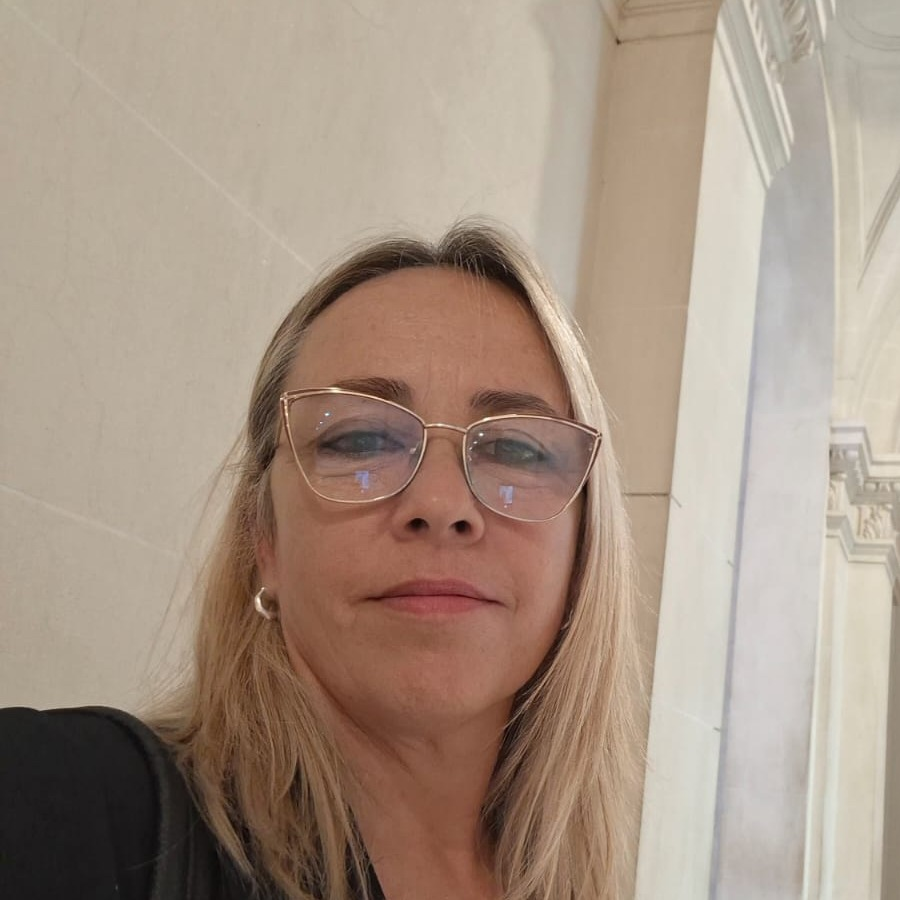
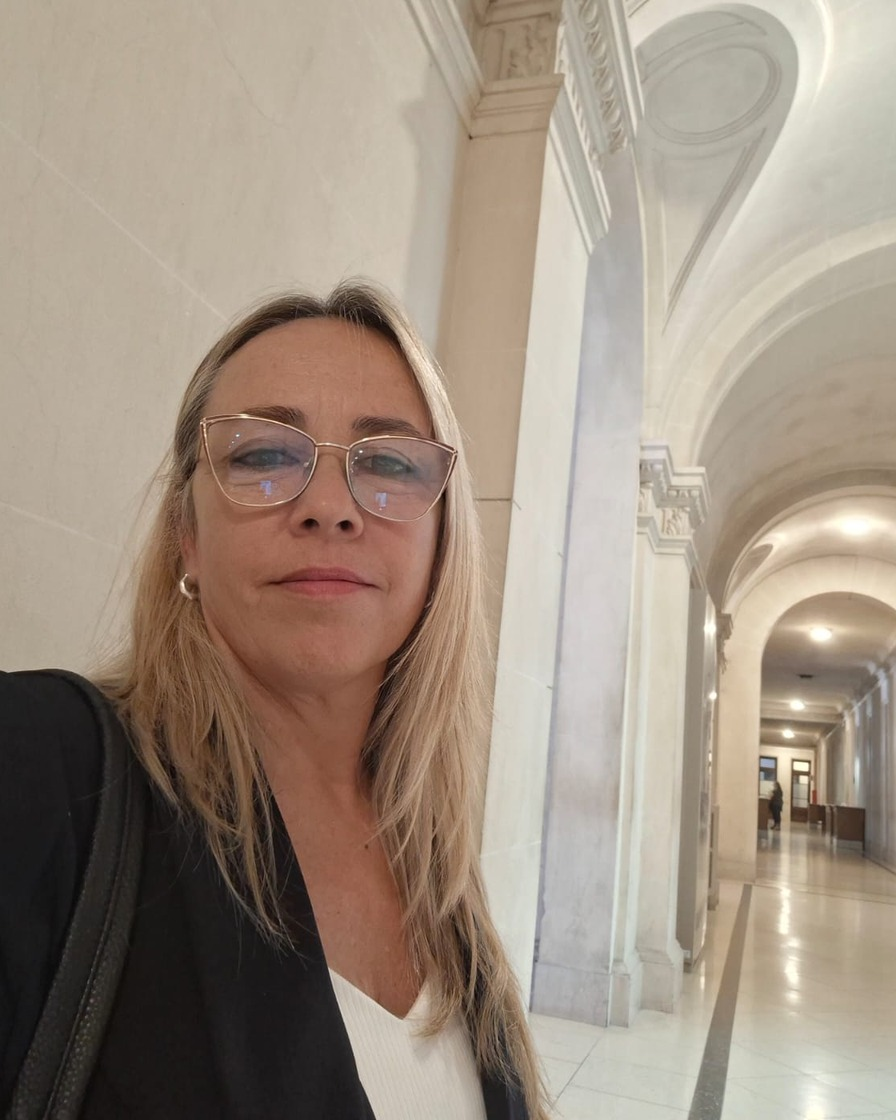
Rediseña el tratamiento de foto: rectangular con marco simple en vez del arco, foto de hero mas grande y con mas contexto

diff --git a/index.html b/index.html
@@ -187,9 +187,10 @@
     opacity:0;animation:fadeUp 1s var(--ease) forwards 1.9s;
   }
   .hero-actions{margin-top:2.8rem;display:flex;flex-wrap:wrap;gap:1rem;opacity:0;animation:fadeUp 1s var(--ease) forwards 2.05s;}
-  .hero-trust{margin-top:3.2rem;display:flex;flex-wrap:wrap;gap:2.2rem;opacity:0;animation:fadeUp 1s var(--ease) forwards 2.2s;}
-  .hero-trust div{display:flex;align-items:center;gap:.6rem;font-size:.84rem;letter-spacing:.1em;
-    text-transform:uppercase;color:var(--tinta-suave);}
+  .hero-trust{margin-top:3.2rem;display:flex;flex-wrap:wrap;gap:.9rem;opacity:0;animation:fadeUp 1s var(--ease) forwards 2.2s;}
+  .hero-trust div{display:flex;align-items:center;gap:.55rem;font-size:.78rem;letter-spacing:.06em;
+    color:var(--verde);background:var(--crema-2);border:1px solid var(--linea);border-radius:100px;
+    padding:.6rem 1.05rem;}
   .hero-trust svg{color:var(--dorado);flex-shrink:0;}
   @keyframes fadeUp{from{opacity:0;transform:translateY(24px);}to{opacity:1;transform:none;}}
 
@@ -209,30 +210,23 @@
   .btn-line:hover::before{transform:scaleX(1);}
 
   .hero-visual{position:relative;display:flex;justify-content:center;opacity:0;animation:fadeUp 1.2s var(--ease) forwards 1.4s;}
-  .medallion{position:relative;width:min(330px,72vw);aspect-ratio:1;}
-  .ring{position:absolute;border-radius:50%;pointer-events:none;}
-  .ring.r1{inset:-20px;border:1px solid var(--linea);animation:spin 26s linear infinite;}
-  .ring.r2{inset:-44px;border:1px dashed rgba(204,154,92,.45);animation:spin 46s linear infinite reverse;}
-  .ring.r3{inset:-70px;border:1px solid rgba(31,64,55,.09);}
-  @keyframes spin{to{transform:rotate(360deg);}}
-
-  .medallion img{
-    width:100%;height:100%;border-radius:50%;object-fit:cover;object-position:center 30%;
-    border:1px solid var(--dorado);box-shadow:0 26px 70px rgba(31,64,55,.28), inset 0 0 0 6px rgba(251,248,240,.4);
+  .photo-frame{position:relative;width:100%;max-width:420px;}
+  .photo-frame .accent{
+    position:absolute;top:24px;right:-24px;bottom:-24px;left:24px;
+    border:1px solid var(--dorado);border-radius:10px;z-index:1;
   }
-
-  .chip{
-    position:absolute;background:var(--crema);border:1px solid var(--linea);border-radius:100px;
-    padding:.58rem 1.15rem;font-size:.76rem;letter-spacing:.13em;text-transform:uppercase;
-    color:var(--verde);white-space:nowrap;box-shadow:0 10px 26px rgba(31,64,55,.10);
+  .photo-frame img{
+    position:relative;z-index:2;display:block;width:100%;aspect-ratio:4/5;object-fit:cover;object-position:22% 30%;
+    border-radius:10px;box-shadow:0 34px 64px rgba(31,64,55,.28);
   }
-  .chip.c1{top:4%;left:-18%;animation:float1 6s ease-in-out infinite;}
-  .chip.c2{bottom:16%;left:-24%;animation:float2 7.5s ease-in-out infinite;}
-  .chip.c3{top:24%;right:-20%;animation:float2 6.8s ease-in-out infinite .6s;}
-  .chip.c4{bottom:2%;right:-12%;animation:float1 8s ease-in-out infinite .3s;}
-  @keyframes float1{0%,100%{transform:translateY(0);}50%{transform:translateY(-13px);}}
-  @keyframes float2{0%,100%{transform:translateY(0);}50%{transform:translateY(11px);}}
-  @media(max-width:520px){.chip.c1,.chip.c2{left:-4%;}.chip.c3,.chip.c4{right:-2%;}.chip{font-size:.64rem;padding:.45rem .85rem;}}
+  .photo-frame .cred{
+    position:absolute;z-index:3;left:-1.4rem;bottom:2rem;background:var(--verde);color:var(--crema-2);
+    padding:.85rem 1.3rem;border-radius:4px;box-shadow:0 16px 36px rgba(31,64,55,.35);
+    font-size:.72rem;letter-spacing:.14em;text-transform:uppercase;white-space:nowrap;
+  }
+  .photo-frame .cred b{display:block;font-family:'Playfair Display',serif;font-style:italic;font-size:1.05rem;
+    color:var(--dorado-luz);letter-spacing:0;text-transform:none;margin-bottom:.15rem;}
+  @media(max-width:520px){.photo-frame .cred{left:.4rem;padding:.7rem 1rem;}}
 
   .scroll-cue{position:absolute;bottom:2.2rem;left:6vw;display:flex;align-items:center;gap:.8rem;
     font-size:.7rem;letter-spacing:.24em;text-transform:uppercase;color:var(--tinta-suave);z-index:4;}
@@ -287,20 +281,16 @@
   .about-grid{display:grid;grid-template-columns:1fr;gap:4rem;align-items:center;}
   @media(min-width:960px){.about-grid{grid-template-columns:.82fr 1.18fr;gap:5.5rem;}}
 
-  .about-fig{position:relative;}
+  .about-fig{position:relative;max-width:420px;}
+  .about-fig .frame-line{position:absolute;top:24px;right:24px;bottom:-24px;left:-24px;
+    border:1px solid var(--dorado);border-radius:10px;pointer-events:none;z-index:1;}
   .about-fig .plate{
-    position:relative;border-radius:220px 220px 8px 8px;overflow:hidden;aspect-ratio:3/4;
+    position:relative;z-index:2;border-radius:10px;overflow:hidden;aspect-ratio:3/4;
     box-shadow:0 30px 70px rgba(31,64,55,.2);background:var(--crema-3);
   }
   .about-fig .plate img{width:100%;height:100%;object-fit:cover;object-position:center 12%;display:block;}
-  .about-fig .plate::before{
-    content:'';position:absolute;inset:16px;border:1px solid rgba(251,248,240,.55);
-    border-radius:200px 200px 8px 8px;pointer-events:none;
-  }
-  .about-fig .frame-line{position:absolute;inset:-18px;border:1px solid var(--linea);
-    border-radius:230px 230px 10px 10px;pointer-events:none;}
   .about-badge{
-    position:absolute;right:-14px;bottom:26px;background:var(--crema);border:1px solid var(--linea);
+    position:absolute;z-index:3;right:-1.4rem;bottom:2rem;background:var(--crema);border:1px solid var(--linea);
     border-radius:6px;padding:.95rem 1.3rem;text-align:center;box-shadow:0 14px 34px rgba(31,64,55,.14);
   }
   .about-badge b{display:block;font-family:'Playfair Display',serif;font-size:1.5rem;color:var(--dorado-osc);font-weight:500;line-height:1.2;}
@@ -516,13 +506,10 @@
     </div>
 
     <div class="hero-visual">
-      <div class="medallion">
-        <div class="ring r3"></div><div class="ring r2"></div><div class="ring r1"></div>
+      <div class="photo-frame">
+        <div class="accent"></div>
         <img src="valeria-hero.jpg" alt="Valeria Córsico Piccolini">
-        <span class="chip c1">Sucesiones</span>
-        <span class="chip c2">Divorcios</span>
-        <span class="chip c3">Usucapión</span>
-        <span class="chip c4">Consumidor</span>
+        <div class="cred"><b>Valeria Córsico</b>Abogada · MP 1-29903</div>
       </div>
     </div>
   </div>
